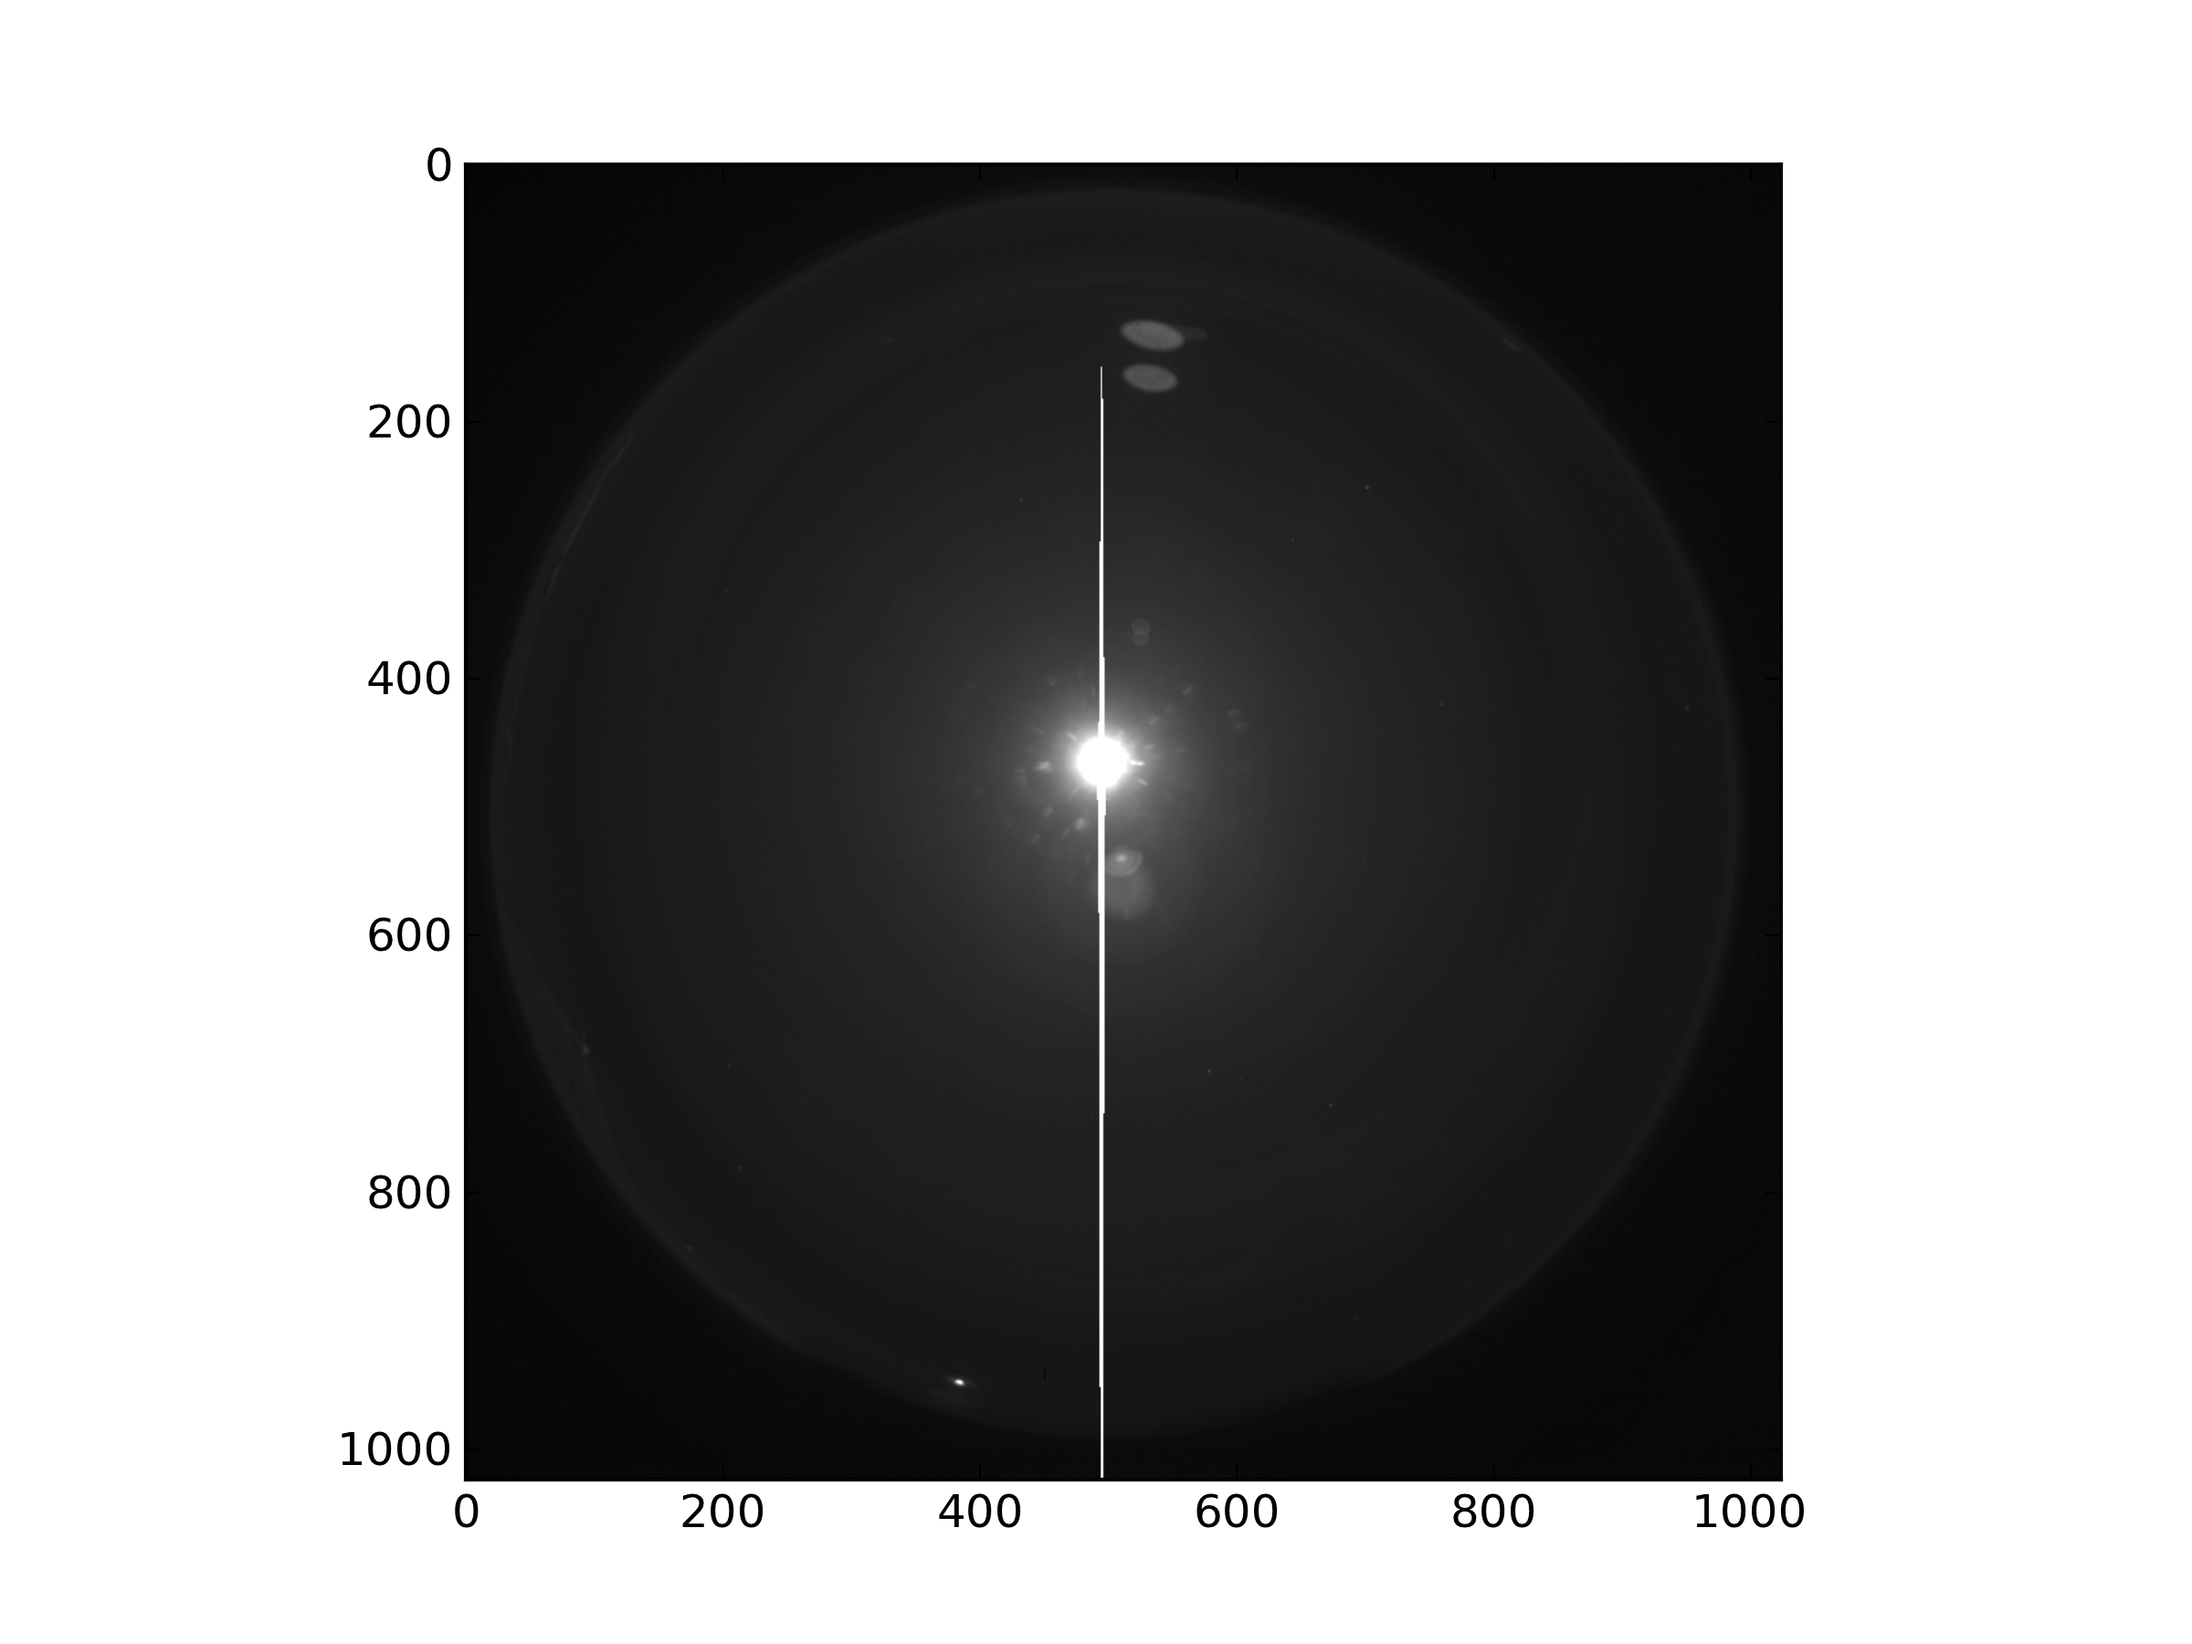
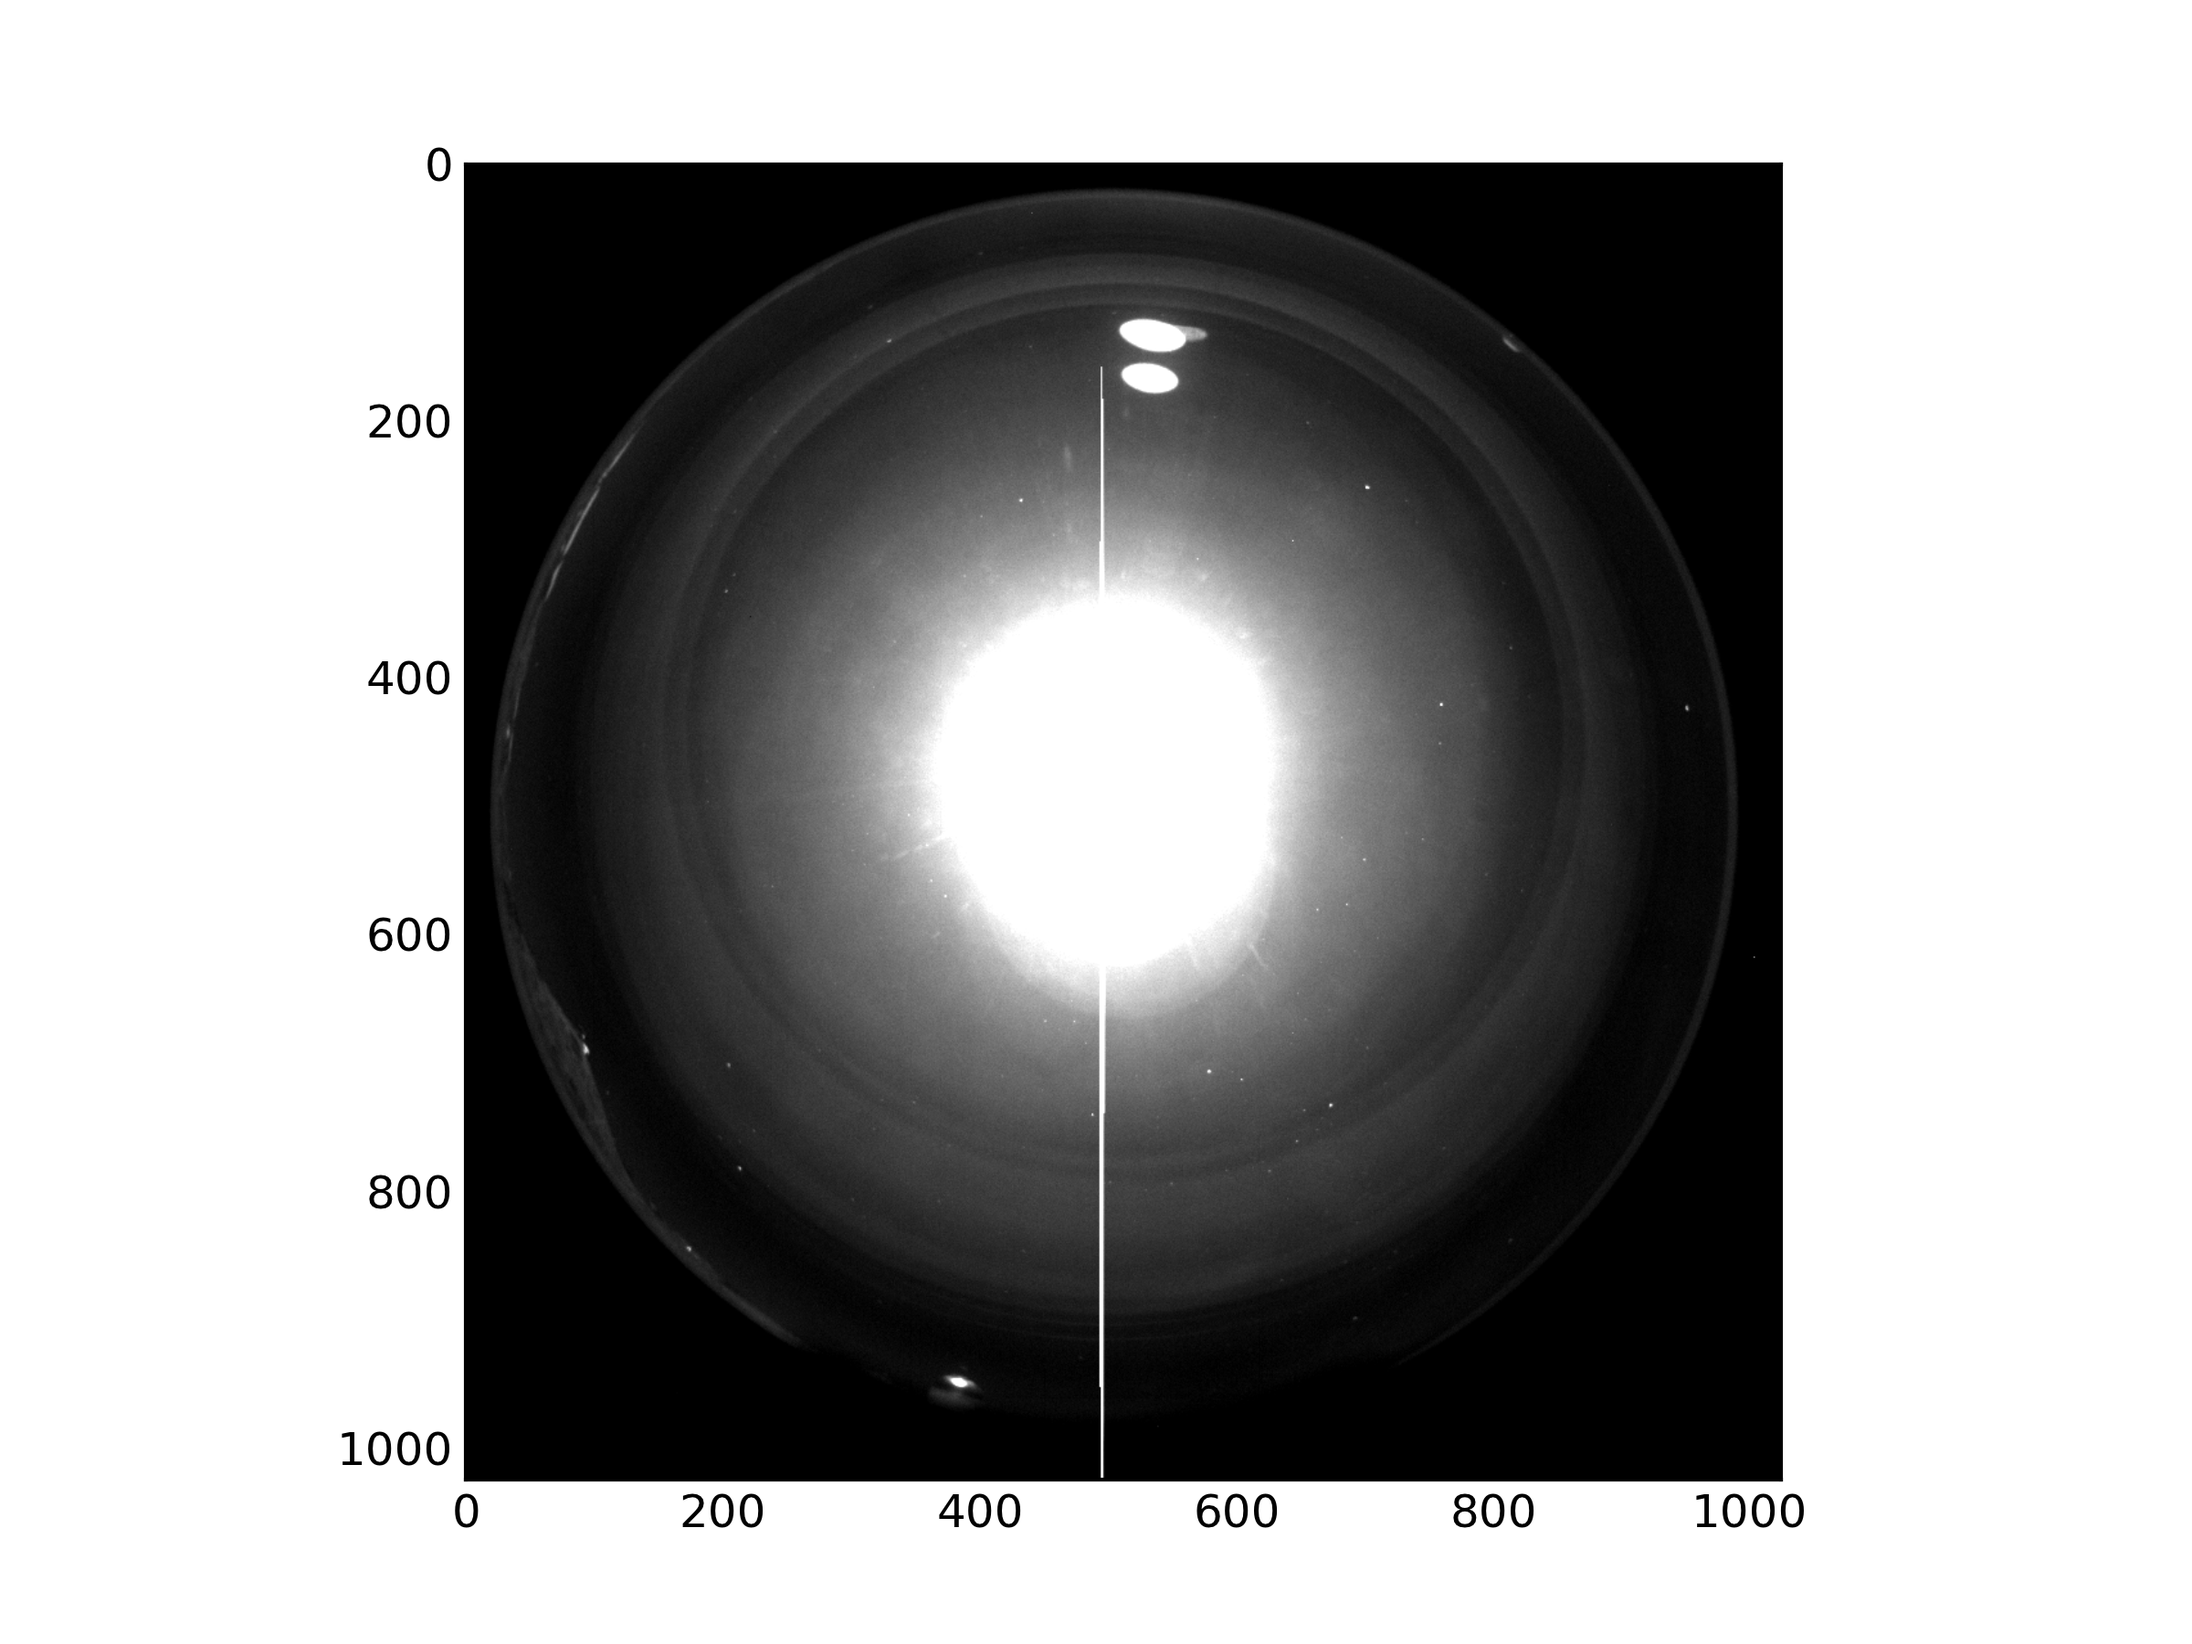
adapted zscale and zrange, now they make proper use of masks. Also less junk generated. Fixed issue with undarked data sabed as double. Needs a big cleanup but works 100%.

Changed region(s): [[0.3125, 0.1556, 0.6875, 0.7778], [0.3438, 0.2489, 0.375, 0.28]]

diff --git a/tests.py b/tests.py
@@ -12,6 +12,8 @@ from pyraf import iraf
 import os
 import pylab as py
 import matplotlib.pyplot as plt
+import pointarray
+import Image
 
 XMIN, XMAX = 33.0, 985.0
 YMIN, YMAX = 24.0, 982.0
@@ -38,20 +40,23 @@ def doBiasSubtraction(fits,bias,newfits):
 	data1 = getData(fits)
 	data2 = getData(bias)
 	newdata = data1 - data2
-	header = getHeader(fits)
-	header.update('BIASSUB', 'YES')
-	pyfits.writeto(newfits, newdata, header)
+	#header = getHeader(fits)
+	#header.update('BIASSUB', 'YES')
+	#pyfits.writeto(newfits, newdata, header)
+	return newdata
 
 #doBiasSubtraction('lc_b20120520ut041236s72330.fits', 'fits/BIAS.fits', 'testunbias.fits')
 	
-def doDarkSubtraction(fits,dark,newfits):
+def doDarkSubtraction(fits,dark,bias,newfits):
 	header = getHeader(fits)
 	exptime = float(header['EXPTIME'])
 	correctedDarkData = getData(dark) * exptime
-	fitsData = getData(fits)
+	#fitsData = getData(fits)
+	fitsData = doBiasSubtraction(fits,bias,newfits)
 	newdata = fitsData - correctedDarkData
-	header.update('DARKSUB', 'YES')
-	pyfits.writeto(newfits, newdata, header)
+	#header.update('DARKSUB', 'YES')
+	#pyfits.writeto(newfits, newdata, header)
+	return newdata
 
 #doDarkSubtraction('testunbias.fits','fits/DARK.fits','testundark.fits')
 
@@ -72,10 +77,10 @@ def createMask(fits,newMask,terrainCounts,saturationCounts):
 	
 #createMask('testundark.fits', 'testmask.fits', 300.0, 1000.0)
 
-def getStats(fits, mask):
-	fitsData = getData(fits)
+def getStats(fitsData, mask):
+	#fitsData = getData(fits)
 	maskData = getData(mask)
-	fitsHeader = getHeader(fits)
+	#fitsHeader = getHeader(fits)
 	dataMasked = ma.array(fitsData, mask=maskData)
 	mean = numpy.mean(dataMasked)
 	amin = numpy.amin(dataMasked)
@@ -126,27 +131,163 @@ def maskMoon(fits, mask, moonMask):
 	else:
 		os.system("cp "+mask+" "+moonMask)
 	
+def zscale_range(image_data_unmasked, contrast=0.25, num_points=600, num_per_row=120, mask=None):
+
+    if (mask==None):
+        image_data = image_data_unmasked
+    else:
+        image_data = ma.array(image_data_unmasked, mask=mask)
+
+    # check contrast
+    if contrast <= 0.0:
+        contrast = 1.0
+
+    # check number of points to use is sane
+    if num_points > numpy.size(image_data) or num_points < 0:
+        num_points = 0.5 * numpy.size(image_data)
+
+    # determine the number of points in each column
+    num_per_col = int(float(num_points) / float(num_per_row) + 0.5)
+
+    # integers that determine how to sample the control points
+    xsize, ysize = image_data.shape
+    row_skip = float(xsize - 1) / float(num_per_row - 1)
+    col_skip = float(ysize - 1) / float(num_per_col - 1)
+
+    # create a regular subsampled grid which includes the corners and edges,
+    # indexing from 0 to xsize - 1, ysize - 1
+    data = []
+   
+    for i in xrange(num_per_row):
+        x = int(i * row_skip + 0.5)
+        for j in xrange(num_per_col):
+            y = int(j * col_skip + 0.5)
+            if image_data[x, y] > 0:
+            	data.append(image_data[x, y])
+
+    # actual number of points selected
+    num_pixels = len(data)
+
+    # sort the data by intensity
+    data.sort()
+
+    # check for a flat distribution of pixels
+    data_min = min(data)
+    data_max = max(data)
+    center_pixel = (num_pixels + 1) / 2
+    
+    if data_min == data_max:
+        return data_min, data_max
+
+    # compute the median
+    if num_pixels % 2 == 0:
+        median = data[center_pixel - 1]
+    else:
+        median = 0.5 * (data[center_pixel - 1] + data[center_pixel])
+
+    # compute an iterative fit to intensity
+    pixel_indeces = map(float, xrange(num_pixels))
+    points = pointarray.PointArray(pixel_indeces, data, min_err=1.0e-4)
+    fit = points.sigmaIterate()
+
+    num_allowed = 0
+    for pt in points.allowedPoints():
+        num_allowed += 1
+
+    if num_allowed < int(num_pixels / 2.0):
+        return data_min, data_max
+
+    # compute the limits
+    z1 = median - (center_pixel - 1) * (fit.slope / contrast)
+    z2 = median + (num_pixels - center_pixel) * (fit.slope / contrast)
+
+    if z1 > data_min:
+        zmin = z1
+    else:
+        zmin = data_min
+
+    if z2 < data_max:
+        zmax = z2
+    else:
+        zmax = data_max
+
+    # last ditch sanity check
+    if zmin >= zmax:
+        zmin = data_min
+        zmax = data_max
+
+    return zmin, zmax
+    
+def FitsImage(fitsfile, data, contrast_opts={}, scale="linear",
+              scale_opts={}, mask=None):
+
+    # open the fits file and read the image data and size
+    #fitslib.fits_simple_verify(fitsfile)
+    fits = pyfits.open(fitsfile)
+
+    try:
+        hdr = fits[0].header
+        xsize = hdr["NAXIS1"]
+        ysize = hdr["NAXIS2"]
+        fits_data = data
+    finally:
+        fits.close()
+        
+    if (mask!=None):
+    	maskfits_data = getData(mask)
+    
+    # compute the proper scaling for the image
+    contrast_value = contrast_opts.get("contrast", 0.25)
+    num_points = contrast_opts.get("num_points", 600)
+    num_per_row = contrast_opts.get("num_per_row", 120)
+    zmin, zmax = zscale_range(fits_data, contrast=contrast_value,
+                              num_points=num_points,
+                              num_per_row=num_per_row, mask=maskfits_data)
+
+    # set all points less than zmin to zmin and points greater than
+    # zmax to zmax
+    fits_data = numpy.where(fits_data > zmin, fits_data, zmin)
+    fits_data = numpy.where(fits_data < zmax, fits_data, zmax)
+
+    if scale == "linear":
+        scaled_data = (fits_data - zmin) * (255.0 / (zmax - zmin)) + 0.5
+    elif scale == "arcsinh":
+        # nonlinearity sets the range over which we sample values of the
+        # asinh function; values near 0 are linear and values near infinity
+        # are logarithmic
+        nonlinearity = scale_opts.get("nonlinearity", 3.0)
+        nonlinearity = max(nonlinearity, 0.001)
+        max_asinh = cmath.asinh(nonlinearity).real
+        scaled_data = (255.0 / max_asinh) * \
+                      (numpy.arcsinh((fits_data - zmin) * \
+                                     (nonlinearity / (zmax - zmin))))
+
+    # convert to 8 bit unsigned int ("b" in numpy)
+    scaled_data = scaled_data.astype("b")
+    
+    # create the image
+    image = Image.frombuffer("L", (xsize, ysize), scaled_data)
+    return image
+    
 def createImage(fits,imagefile):
 	os.system("rm temp*.fits")
-	doBiasSubtraction(fits,'fits/BIAS.fits','tempunbias.fits')
-	doDarkSubtraction('tempunbias.fits','fits/DARK.fits','tempundark.fits')
+	#doBiasSubtraction(fits,'fits/BIAS.fits','tempunbias.fits')
+	data = doDarkSubtraction(fits,'fits/DARK.fits','fits/BIAS.fits','tempundark.fits')
 	maskMoon(fits,'fits/MASK.fits','tempmoonmask.fits')
-	stats = getStats('tempundark.fits','tempmoonmask.fits')
-	min = stats['min']
-	max = stats['max']
-	mean = stats['mean']
-	std = stats['std']
-	pixMin = (min + mean - std)/2
-	pixMax = (max + mean + std)/2
-	data = getData('tempundark.fits')
-	x, y = data.shape
-	img = img_scale.sqrt(data, min, max)
+	#stats = getStats('tempundark.fits','tempmoonmask.fits')
+	#min = stats['min']
+	#max = stats['max']
+	#mean = stats['mean']
+	#std = stats['std']
+	#pixMin = (min + mean - std)/2
+	#pixMax = (max + mean + std)/2
+	img = FitsImage(fits, data, scale="linear", mask='tempmoonmask.fits')
 	py.imshow(img, aspect='equal', cmap=plt.get_cmap('gray'))
 	py.savefig(imagefile,dpi=300)
-	#os.system("rm temp*.fits")
+	os.system("rm temp*.fits")
 
 # full moon example	
-#createImage('lc_r20120604ut041627s76110.fits','fullmoon.png')
+createImage('lc_r20120604ut041627s76110.fits','fullmoon.png')
 
 # new moon example
 #createImage('lc_r20120520ut041206s72300.fits','newmoon.png')
@@ -157,14 +298,6 @@ def createImage(fits,imagefile):
 # 70% clouds moon up example
 #createImage('lc_r20120609ut071844s01860.fits','70clouds50moon.png')
 
-
-createImage('lc_r20120731ut002651s75780.fits','badtest.png')
-
-#mask = getData('tempmoonmask.fits')
-image = fitsimage.FitsImage('lc_r20120615ut072304s03540.fits', \
- contrast='zscale', mask=None)
-py.imshow(image, aspect='equal', cmap=plt.get_cmap('gray'))
-py.savefig('test.png',dpi=300)
 
 	
 
